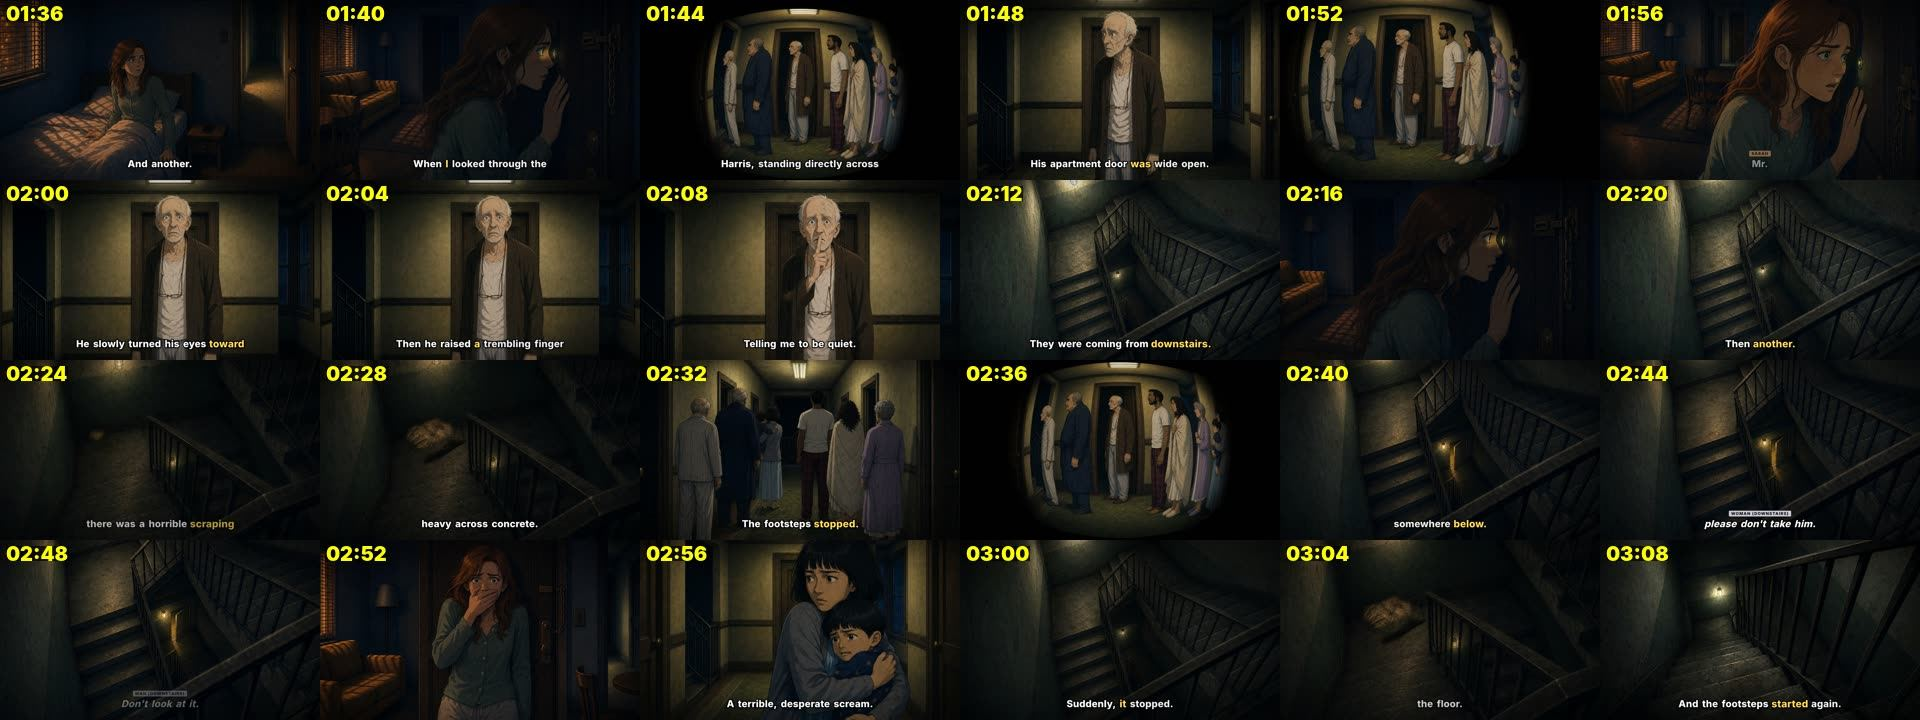
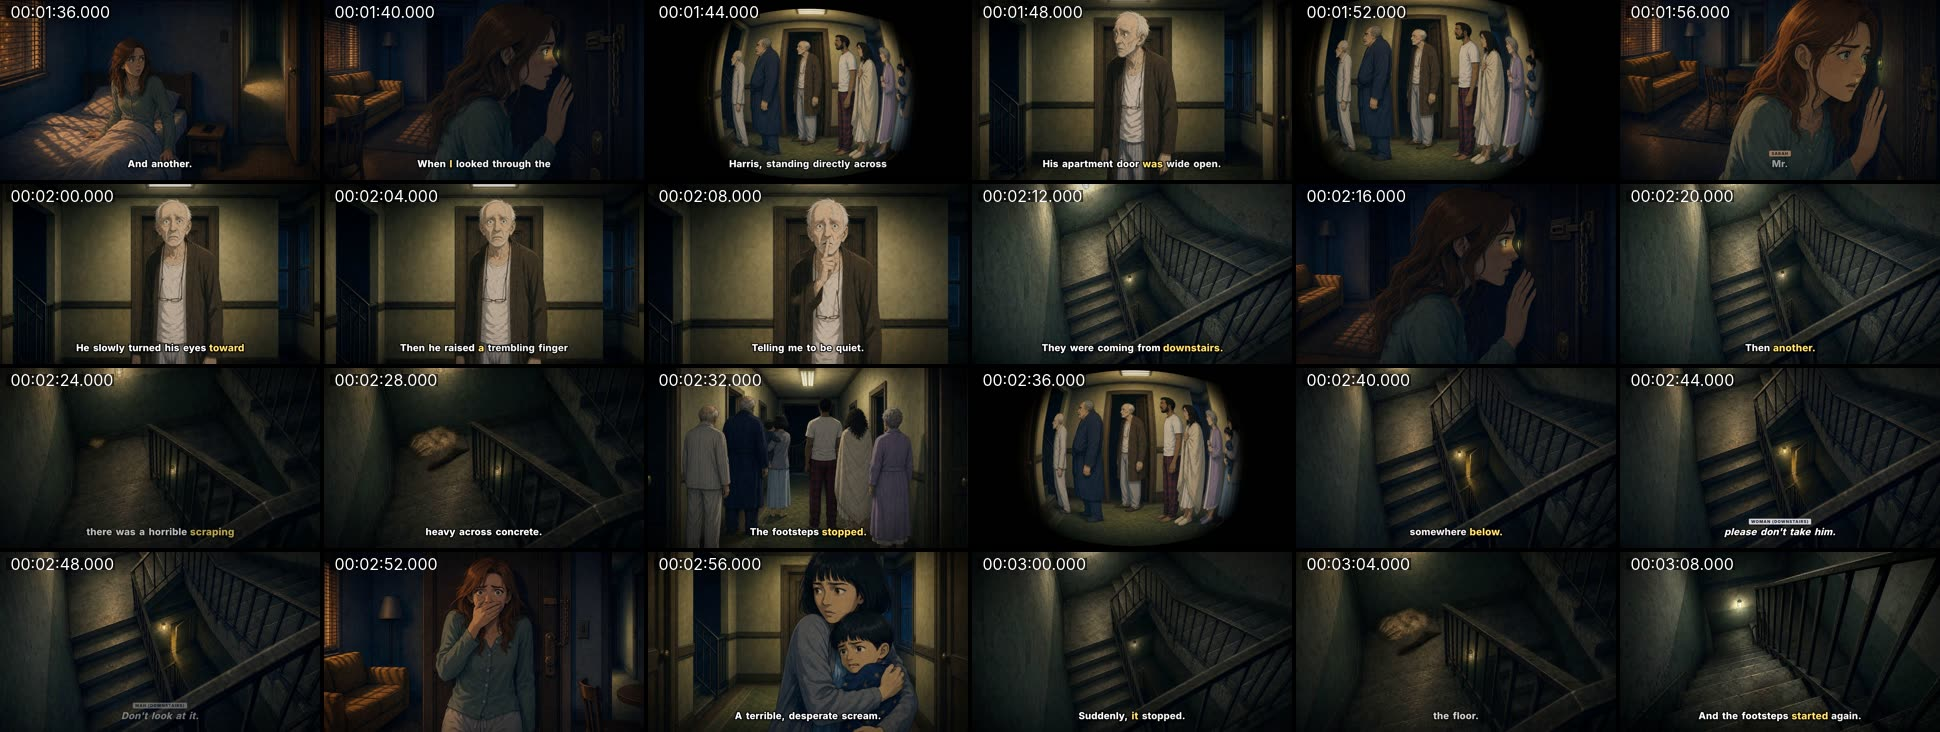
3:06: review fixes recorded in STATUS (images $33.16 of $40), fix-check sheet, contact sheets from the new render
Claude-Session: https://claude.ai/code/session_01HYgoxans3AHT78NQRMkcgm

diff --git a/door306-horror/STATUS.md b/door306-horror/STATUS.md
@@ -55,9 +55,26 @@ The plan is in [`PLAN.md`](PLAN.md) and the script, word for word, in [`SCRIPT.m
   - `DESCRIPTION.txt` (spoiler-free hook, 10 chapters, the fiction disclaimer, 3 hashtags, 32 CC-BY credits);
   - three thumbnails composed from film frames, at no image cost: `thumbnail_A_they_chose_me.jpg`, `thumbnail_B_306am.jpg`, `thumbnail_C_dont_open.jpg`.
 
+## Fixes after the user's review
+
+- **Doors:**
+  - Each door panel is cut from the shut frame and swings open in 3D on its hinge over 0.9 s.
+  - The hinge side is read from the doors-open drawing (the lit strip of the swung-back panel); a fully dark doorway falls back to the doorknob rule.
+  - The doors behind Sarah swing shut one by one (`doors.close`).
+- **Drawings:**
+  - They change on a clean cut, with no dissolve, because blended drawings ghosted (neighbours seemed to merge or vanish through the peephole).
+  - A drawing that changes more than 12% of the frame is used whole, never half-merged.
+- **Hands:** Sarah at the door now has exactly two hands. In the scream, the creature's hand is drawn long, thin and grey.
+- **Direction:**
+  - she is dragged out of the doorframe feet-first;
+  - she pulls the sofa toward the door;
+  - the old man by the stairs faces the staircase.
+- **Landlord:** a new composed, polite sheet. His key handover, mailbox, office and phone-call frames were redrawn, with at most a faint smile.
+- **Evidence:** `previews/check_fixes.jpg`.
+
 ## Cost
 
-- **Images:** $29.57 of the $40 cap, from 148 image requests (cost log at `logs/image_costs.jsonl`).
+- **Images:** $33.16 of the $40 cap, from 165 image requests including the review fixes (cost log at `logs/image_costs.jsonl`).
 - **Voices:** about $0.14.
 - **MiniMax:** $0.
 
